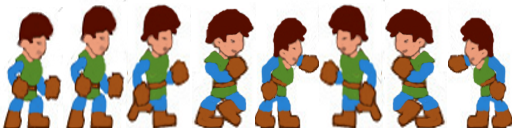
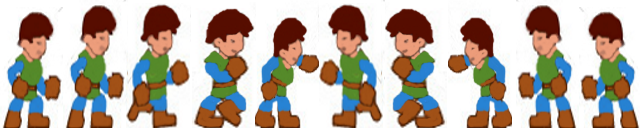
Sword Attacking

diff --git a/CapstoneProject/TileEngine/Animation/Animation.cs b/CapstoneProject/TileEngine/Animation/Animation.cs
@@ -15,7 +15,7 @@ namespace TileEngine
     public class Animation
     {
         // Enum for Animation states
-        public enum Animate { IDLE, RMOVING, LMOVING };
+        public enum Animate { RIDLE, LIDLE, RMOVING, LMOVING, RATTACK, LATTACK };
 
         // Hold the current state of the Animation
         public Animate state;
@@ -52,6 +52,9 @@ namespace TileEngine
 
         // The time we display a frame until the next one
         private int _frameTime;
+
+        // The time we display a frame until the next one
+        private int _initialFrameTime;
 
         // The number of frames that the animation contains
         private int _frameCount;
@@ -119,6 +122,12 @@ namespace TileEngine
             set { _frameTime = value; }
         }
 
+        public int initialFrameTime
+        {
+            get { return _initialFrameTime; }
+            set { _initialFrameTime = value; }
+        }
+
         public int frameCount
         {
             get { return _frameCount; }
@@ -182,7 +191,7 @@ namespace TileEngine
         /// <param name="animation"></param>
         public void Initialize(Texture2D texture, Vector2 position,
         int frameWidth, int frameHeight, int frameCount,
-        int frametime, Color color, float scale, bool looping, Animate animation = Animate.IDLE)
+        int frametime, Color color, float scale, bool looping, Animate animation = Animate.RIDLE)
         {
             // Keep a local copy of the values passed in
             this.color = color;
@@ -190,6 +199,7 @@ namespace TileEngine
             this.FrameHeight = frameHeight;
             this.frameCount = frameCount;
             this.frameTime = frametime;
+            this.initialFrameTime = frametime;
             this.scale = scale;
 
             Looping = looping;
@@ -201,9 +211,13 @@ namespace TileEngine
 
             switch (animation)
             {
-                case Animate.IDLE:
+                case Animate.RIDLE:
                     currentFrame = 0;
-                    this.state = Animate.IDLE;
+                    this.state = Animate.RIDLE;
+                    break;
+                case Animate.LIDLE:
+                    currentFrame = 8;
+                    this.state = Animate.LIDLE;
                     break;
                 case Animate.RMOVING:
                     currentFrame = 2;
@@ -212,6 +226,14 @@ namespace TileEngine
                 case Animate.LMOVING:
                     currentFrame = 5;
                     this.state = Animate.LMOVING;
+                    break;
+                case Animate.RATTACK:
+                    currentFrame = 4;
+                    this.state = Animate.RATTACK;
+                    break;
+                case Animate.LATTACK:
+                    currentFrame = 7;
+                    this.state = Animate.LATTACK;
                     break;
                 default:
                     currentFrame = 0;
@@ -234,20 +256,37 @@ namespace TileEngine
 
                 switch (this.state)
                 {
-                    case Animate.IDLE:
+                    case Animate.RIDLE:
                         currentFrame = 0;
                         frameCount = 2;
-                        this.state = Animate.IDLE;
+                        this.state = Animate.RIDLE;
+                        break;
+                    case Animate.LIDLE:
+                        currentFrame = 8;
+                        frameCount = 10;
+                        this.state = Animate.LIDLE;
                         break;
                     case Animate.RMOVING:
                         currentFrame = 2;
-                        frameCount = 5;
+                        frameCount = 4;
                         this.state = Animate.RMOVING;
                         break;
                     case Animate.LMOVING:
                         currentFrame = 5;
-                        frameCount = 8;
+                        frameCount = 7;
                         this.state = Animate.LMOVING;
+                        break;
+                    case Animate.RATTACK:
+                        currentFrame = 4;
+                        frameCount = 5;
+                        this.state = Animate.RATTACK;
+                        this.frameTime = this.initialFrameTime + 75;
+                        break;
+                    case Animate.LATTACK:
+                        currentFrame = 7;
+                        frameCount = 8;
+                        this.state = Animate.LATTACK;
+                        this.frameTime = this.initialFrameTime + 75;
                         break;
                     default:
                         currentFrame = 0;
@@ -271,20 +310,37 @@ namespace TileEngine
                 {
                     switch (this.state)
                     {
-                        case Animate.IDLE:
+                        case Animate.RIDLE:
                             currentFrame = 0;
                             frameCount = 2;
-                            this.state = Animate.IDLE;
+                            this.state = Animate.RIDLE;
+                            break;
+                        case Animate.LIDLE:
+                            currentFrame = 8;
+                            frameCount = 10;
+                            this.state = Animate.LIDLE;
                             break;
                         case Animate.RMOVING:
                             currentFrame = 2;
-                            frameCount = 5;
+                            frameCount = 4;
                             this.state = Animate.RMOVING;
                             break;
                         case Animate.LMOVING:
                             currentFrame = 5;
-                            frameCount = 8;
+                            frameCount = 7;
                             this.state = Animate.LMOVING;
+                            break;
+                        case Animate.RATTACK:
+                            currentFrame = 0;
+                            frameCount = 2;
+                            this.state = Animate.RIDLE;
+                        this.frameTime = this.initialFrameTime;
+                            break;
+                        case Animate.LATTACK:
+                            currentFrame = 8;
+                            frameCount = 10;
+                            this.state = Animate.LIDLE;
+                        this.frameTime = this.initialFrameTime;
                             break;
                         default:
                             currentFrame = 0;

diff --git a/CapstoneProject/TileEngine/Player/Player.cs b/CapstoneProject/TileEngine/Player/Player.cs
@@ -92,6 +92,8 @@ namespace TileEngine
         private Texture2D _rangedTexture;
 
         private int _weaponDirection = 1;
+        private int _justAttacked = 0;
+        private bool _attackReleased = true;
 
         /// <summary>
         /// Default constructor for player
@@ -137,16 +139,45 @@ namespace TileEngine
             // Vector2 Position = Vector2.Zero;
             PlayerAnimation.Position = Position;
 
+            if (_justAttacked <= 20)
+            {
+                _weapon.Update(gameTime, new Vector2(-500, -500));
+                if (_justAttacked >= 0)
+                {
+                    _justAttacked--;
+                }
+                else if (Keyboard.GetState().IsKeyUp(Keys.Space))
+                {
+                    _attackReleased = true;
+                }
+            }
+            else
+            {
+                _weapon.setDirection(_weaponDirection);
+                _weapon.Update(gameTime, Position);
+                _justAttacked--;
+                _attackReleased = false;
+            }
+
             //PlayerAnimation.Update(gameTime);
 
             base.Update(gameTime);
 
             //Reset movement to still
+            if (_justAttacked <= 0)
+            {
+                if (_weaponDirection == 1)
+                {
+                    PlayerAnimation.state = Animation.Animate.RIDLE;
+                }
+                else
+                {
+                    PlayerAnimation.state = Animation.Animate.LIDLE;
+                }
+            }
 
             _movement.X = 0;
 
-            PlayerAnimation.state = Animation.Animate.IDLE;
-            _weaponDirection = 1;
 
             // Trying to move Left or Right
             if (Keyboard.GetState().IsKeyDown(Controls.Left) || (GamePad.GetState(PlayerIndex.One).DPad.Left == ButtonState.Pressed))
@@ -162,12 +193,27 @@ namespace TileEngine
                 PlayerAnimation.state = Animation.Animate.RMOVING;
 
                 _movement.X = 5;
+                _weaponDirection = 1;
             }
 
             //Keeping track of jumping/falling speed
             if (( Keyboard.GetState().IsKeyDown(Controls.Up) || (GamePad.GetState(PlayerIndex.One).DPad.Left == ButtonState.Pressed) ) && Position.Y == 372)
             {
                 _movement.Y += -20;
+            }
+
+            // Attack
+            if ((Keyboard.GetState().IsKeyDown(Keys.Space) || (GamePad.GetState(PlayerIndex.One).Buttons.A == ButtonState.Pressed)) && _attackReleased)
+            {
+                _justAttacked = 40;
+                if (_weaponDirection == 1)
+                {
+                    PlayerAnimation.state = Animation.Animate.RATTACK;
+                }
+                else
+                {
+                    PlayerAnimation.state = Animation.Animate.LATTACK;
+                }
             }
 
             _movement.Y += 1;
@@ -212,8 +258,6 @@ namespace TileEngine
             OY = _offset.Y;
 
             map.Update(gameTime, _offset);
-            _weapon.setDirection(_weaponDirection);
-            _weapon.Update(gameTime, Position);
         }
 
         /// <summary>

diff --git a/CapstoneProject/TileEngine/RolePlay/Weapon.cs b/CapstoneProject/TileEngine/RolePlay/Weapon.cs
@@ -79,7 +79,7 @@ namespace TileEngine
         {
             float x = Position.X;
             float y = Position.Y;
-            Vector2 weaponPosition = new Vector2(x+_cropPos, y+45);
+            Vector2 weaponPosition = new Vector2(x+_cropPos, y+25);
             this.Position = weaponPosition;
             //_weaponAnimation.Position = weaponPosition;
             base.Update(gameTime);
@@ -117,12 +117,12 @@ namespace TileEngine
             if (d == 1)
             {
                 _cropStart = 64;
-                _cropPos = 50;
+                _cropPos = 47;
             }
             else
             {
                 _cropStart = 0;
-                _cropPos = -50;
+                _cropPos = -47;
             }
         }
 
